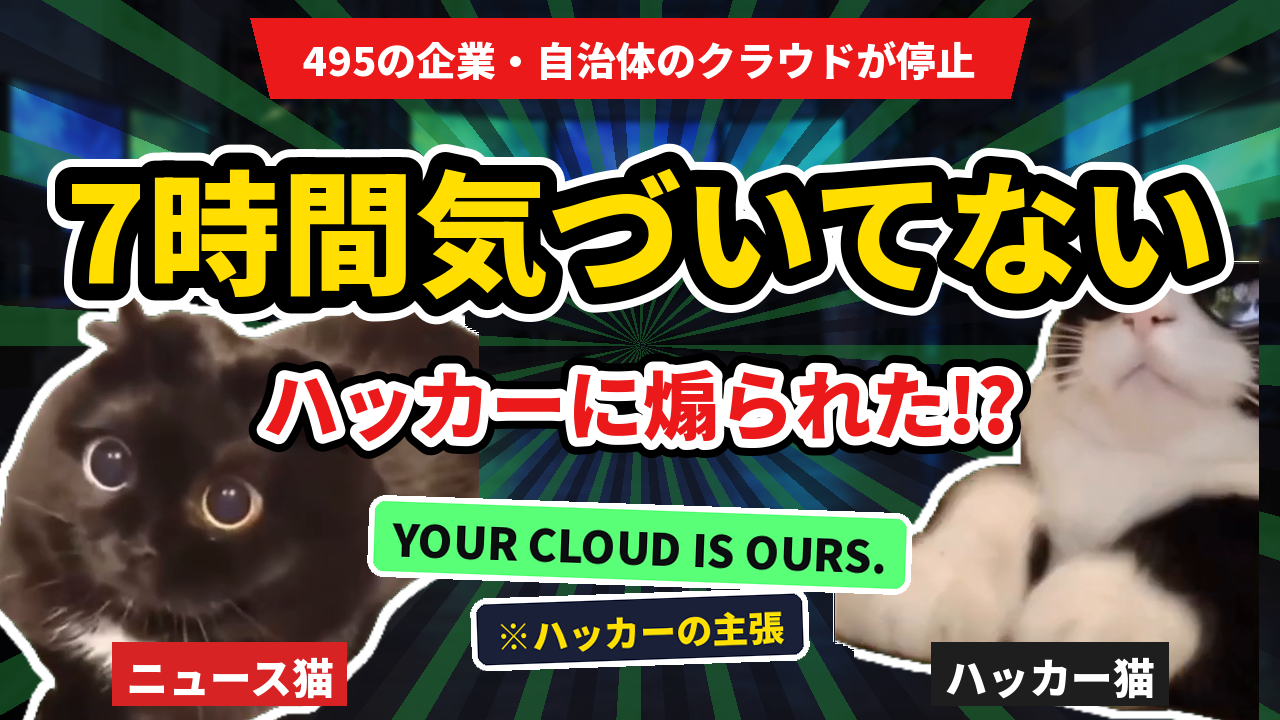
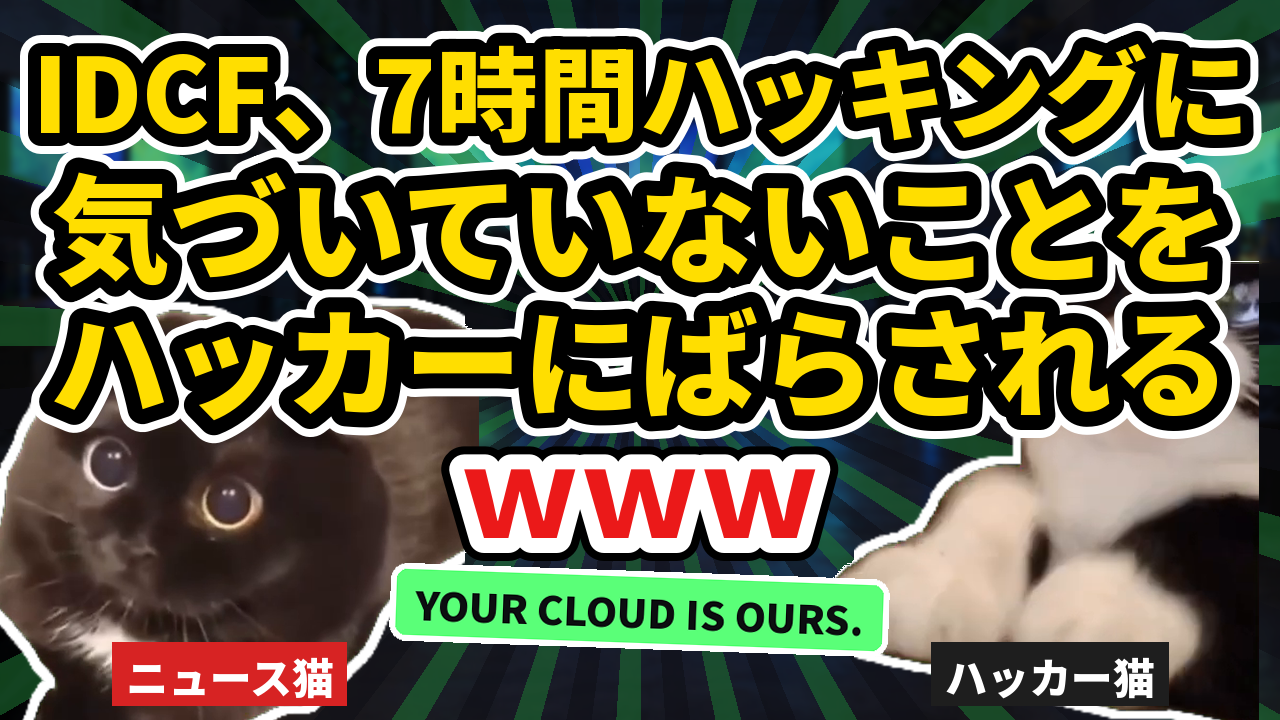
10本目サムネ：赤帯なしで文言を全部・ｗｗｗあり・主張の札なし
Claude-Session: https://claude.ai/code/session_011g9CsrfFD5YswfNSvNDW39

diff --git a/catmeme/make_thumb_03.py b/catmeme/make_thumb_03.py
@@ -33,7 +33,7 @@ def tag(img, text, color, cx, y, size=40):
 
 
 def make(out, left, right, top, big, sub, badge="年60万円・最大600万円", ray_cols=((255, 60, 60), (255, 220, 0)), bg="bg19_kids_room",
-         cat_h=470, extras=(), words=(), tags=True, bg_dir="03_kodomo_nisa", stickers=()):
+         cat_h=470, extras=(), words=(), tags=True, bg_dir="03_kodomo_nisa", stickers=(), lines=()):
     path = os.path.join(HERE, "backgrounds", bg_dir, bg + ".png")
     img = Image.open(path).convert("RGB").resize((W, H)).filter(ImageFilter.GaussianBlur(3)).convert("RGBA")
     # 集中線
@@ -57,12 +57,18 @@ def make(out, left, right, top, big, sub, badge="年60万円・最大600万円",
         if tags:
             tag(img, role, color, x, H - 78, size=42)
     d = ImageDraw.Draw(img)
-    # 上の帯
-    d.polygon([(250, 18), (1030, 18), (1010, 98), (270, 98)], fill=RED)
-    fit_text(d, (640, 58), top, 720, 56, WHITE, RED, sw_ratio=0.0)
+    # 上の帯（top が空なら帯なし）
+    if top:
+        d.polygon([(250, 18), (1030, 18), (1010, 98), (270, 98)], fill=RED)
+        fit_text(d, (640, 58), top, 720, 56, WHITE, RED, sw_ratio=0.0)
     # メインの大きな文字
-    fit_text(d, (640, 225), big, 1180, 190, YELLOW, BLACK, double=WHITE)
-    fit_text(d, (640, 400), sub, 760, 120, RED, WHITE, double=BLACK)
+    if big:
+        fit_text(d, (640, 225), big, 1180, 190, YELLOW, BLACK, double=WHITE)
+    if sub:
+        fit_text(d, (640, 400), sub, 760, 120, RED, WHITE, double=BLACK)
+    # 長い文言を何行かに分けて大きく（text, y, 文字の大きさ, 色, 縁の色, 外側の縁の色）
+    for text, y, size, fill, stroke, double in lines:
+        fit_text(d, (640, y), text, 1230, size, fill, stroke, double=double)
     # 下の真ん中の札（数字）
     if not badge:
         badge = None

diff --git a/catmeme/make_thumb_10.py b/catmeme/make_thumb_10.py
@@ -24,6 +24,14 @@ THUMB = dict(
 THUMB_C = dict(THUMB, top="IDCF、7時間ハッキングに気づいていないことを", big="ハッカーにばらされる", sub="ｗｗｗ",
                stickers=(("YOUR CLOUD IS OURS.", 640, 520, 44, (90, 255, 120), (12, 14, 16), -2),
                          ("※「7時間気づいていない」はハッカーの主張", 690, 605, 32, NAVY, YELLOW, 2)))
+# 10/11 ユーザー指定：赤帯なし・文言を全部入れる（少し小さくてよい）・ｗｗｗあり・「ハッカーの主張」の札はなし（概要欄でカバー）
+BLACK = (0, 0, 0)
+THUMB_E = dict(THUMB, top="", big="", sub="",
+               stickers=(("YOUR CLOUD IS OURS.", 640, 610, 40, (90, 255, 120), (12, 14, 16), -2),),
+               lines=(("IDCF、7時間ハッキングに", 88, 118, YELLOW, BLACK, WHITE),
+                      ("気づいていないことを", 222, 118, YELLOW, BLACK, WHITE),
+                      ("ハッカーにばらされる", 356, 118, YELLOW, BLACK, WHITE),
+                      ("ｗｗｗ", 485, 120, RED, WHITE, BLACK)))
 # 同じ文言から「ｗｗｗ」だけ外した案（被害を受けた会社を笑う形にしない）
 THUMB_D = dict(THUMB_C, sub="", big="ハッカーにばらされる")
 
@@ -31,3 +39,4 @@ if __name__ == "__main__":
     make(os.path.join(HERE, "thumbs", "10_idcf.png"), **THUMB)
     make(os.path.join(HERE, "thumbs", "10_idcf_c.png"), **THUMB_C)
     make(os.path.join(HERE, "thumbs", "10_idcf_d.png"), **THUMB_D)
+    make(os.path.join(HERE, "thumbs", "10_idcf_e.png"), **THUMB_E)

diff --git a/catmeme/scripts/10_idcf_youtube.md b/catmeme/scripts/10_idcf_youtube.md
@@ -6,7 +6,7 @@
 3. 【猫ミーム】クラウドに預けたら安心じゃないの？IDCFランサムウェア攻撃をゆるっと整理 #猫ミーム
 
 ## サムネ
-- thumbs/10_idcf.png（「7時間気づいてない　ハッカーに煽られた!?」＋札「YOUR CLOUD IS OURS.」「※ハッカーの主張」）
+- thumbs/10_idcf_e.png（release/10_idcf.png と同じ）：「IDCF、7時間ハッキングに気づいていないことをハッカーにばらされるｗｗｗ」＋札「YOUR CLOUD IS OURS.」。「ハッカーの主張」は概要欄の「ご注意」でカバー（ユーザー指定 10/11）
 
 ## 説明文
 
